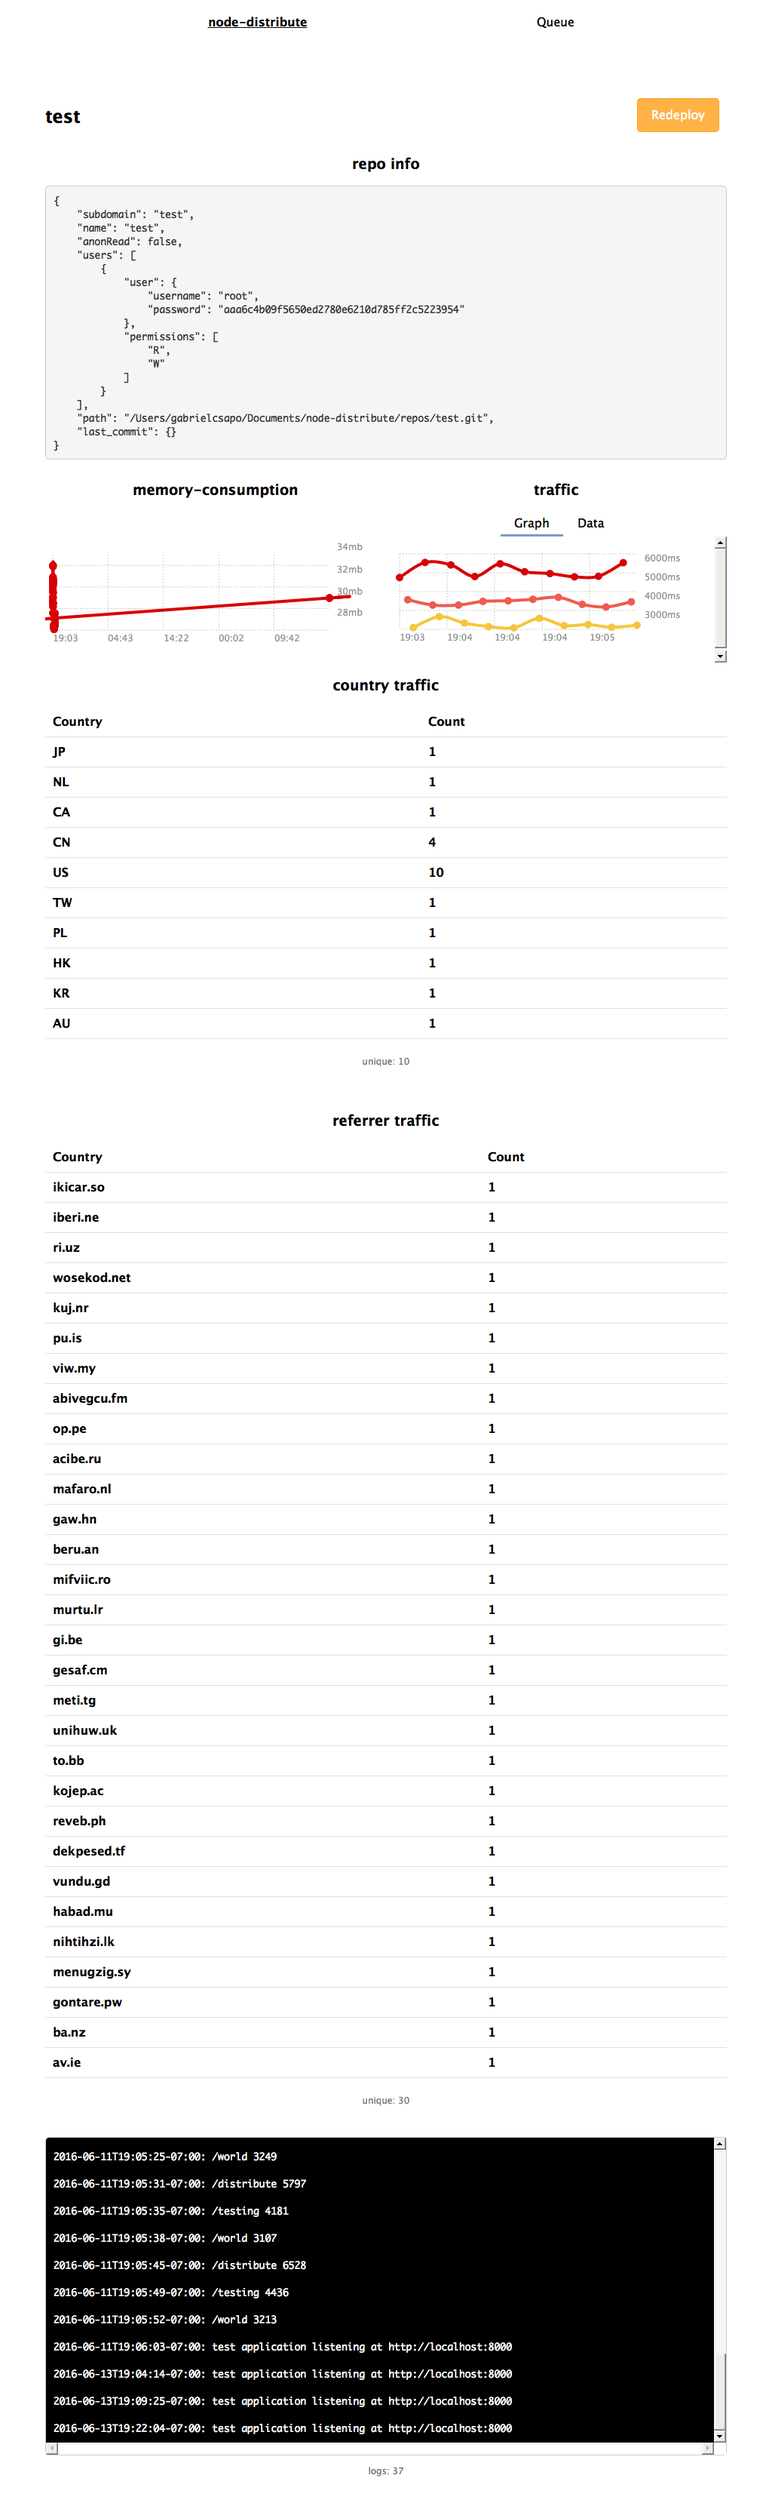
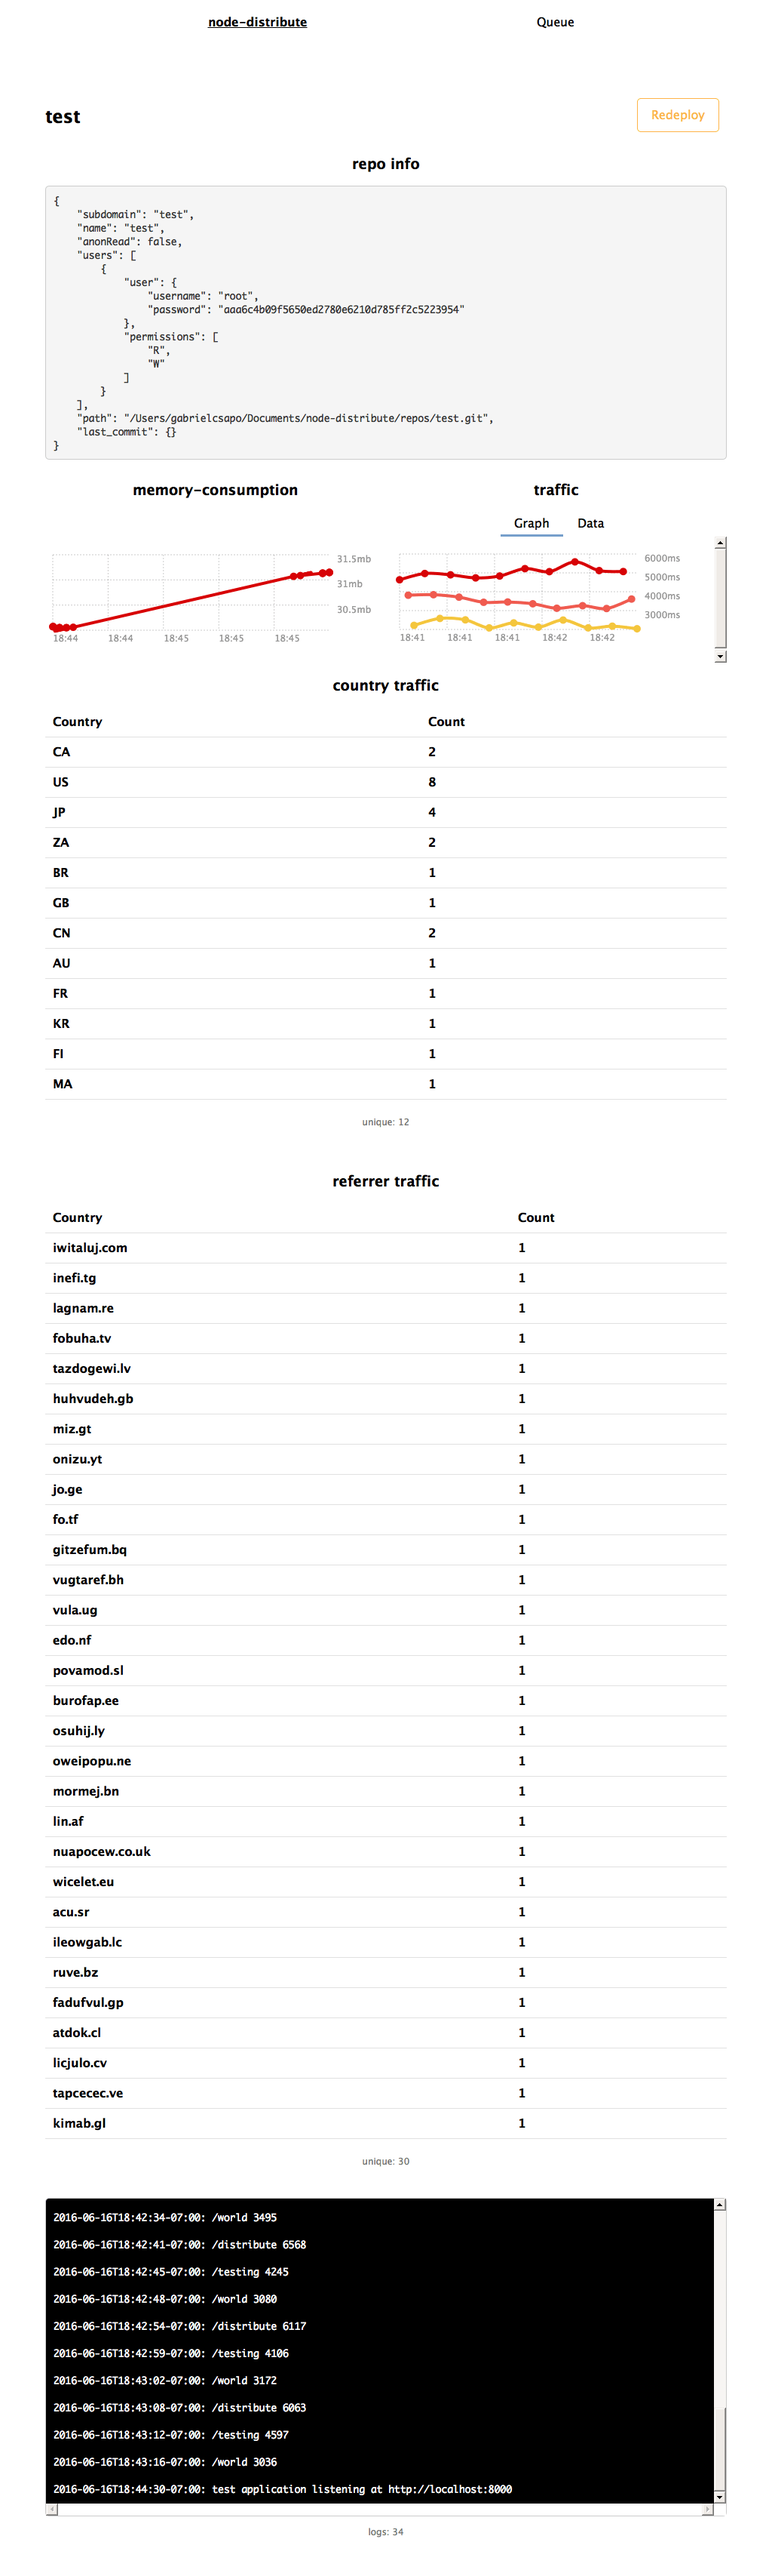
updates depends, removes lowdb for node-flat-db (#10)

diff --git a/operations/views/admin/index.js b/operations/views/admin/index.js
@@ -128,7 +128,7 @@ var getProcesses = function() {
                     // TODO: 🤕
                     div.innerHTML = '<div class="process-container" id="' + process.name + '">' +
                         '<div class="grid">' +
-                        '<div class="col-12-12"><h2 style="float:left;">' + process.name + '</h2><button id="' + process.name + '-redeploy" style="float:right;" class="btn btn-warning"> Redeploy </button></div>' +
+                        '<div class="col-12-12"><h2 style="float:left;">' + process.name + '</h2><button id="' + process.name + '-redeploy" style="float:right;" class="btn border-warning"> Redeploy </button></div>' +
                         '<div class="col-12-12"><h3>repo info</h3><pre style="text-align:left;" id="' + process.name + '-repo"></pre></div>' +
                         '<div class="col-6-12"><h3>memory-consumption</h3><div id="' + process.name + '-chart-memory" style="margin-top:60px;"></div></div>' +
                         '<div class="col-6-12"><h3>traffic</h3><div class="nav-tab" style="height:200px;"><ul><li> <input type="radio" name="nav-tab-label" checked="checked" id="label-graph"><label for="label-graph">Graph</label><div><div id="' + process.name + '-chart-traffic"></div></div></li><li><input type="radio" name="nav-tab-label" id="label-data"><label for="label-data">Data</label><div id="' + process.name + '-table-traffic"></div></li></ul></div></div>' +

diff --git a/operations/lib/repos.js b/operations/lib/repos.js
@@ -1,4 +1,4 @@
-// TODO: use lowdb, because eventually we want to be able to write to these files
+// TODO: use node-flat-db, because eventually we want to be able to write to these files
 // TODO: or abstract this out to be able to save the json files whenever you change the underlying object?
 // TODO: add checks to make sure the data is not malformed
 var path = require('path');

diff --git a/operations/lib/user.js b/operations/lib/user.js
@@ -1,4 +1,4 @@
-// TODO: use lowdb, because eventually we want to be able to write to these files
+// TODO: use node-flat-db, because eventually we want to be able to write to these files
 // TODO: or abstract this out to be able to save the json files whenever you change the underlying object?
 // TODO: add checks to make sure the data is not malformed
 var path = require('path');

diff --git a/operations/lib/db.js b/operations/lib/db.js
@@ -1,5 +1,5 @@
-var low = require('lowdb');
-var db = low('db.json', { storage: require('lowdb/file-sync') });
+var flat = require('node-flat-db');
+var db = flat('db.json', { storage: require('node-flat-db/file-sync') });
 
 /**
     ('{app}')(logs),
